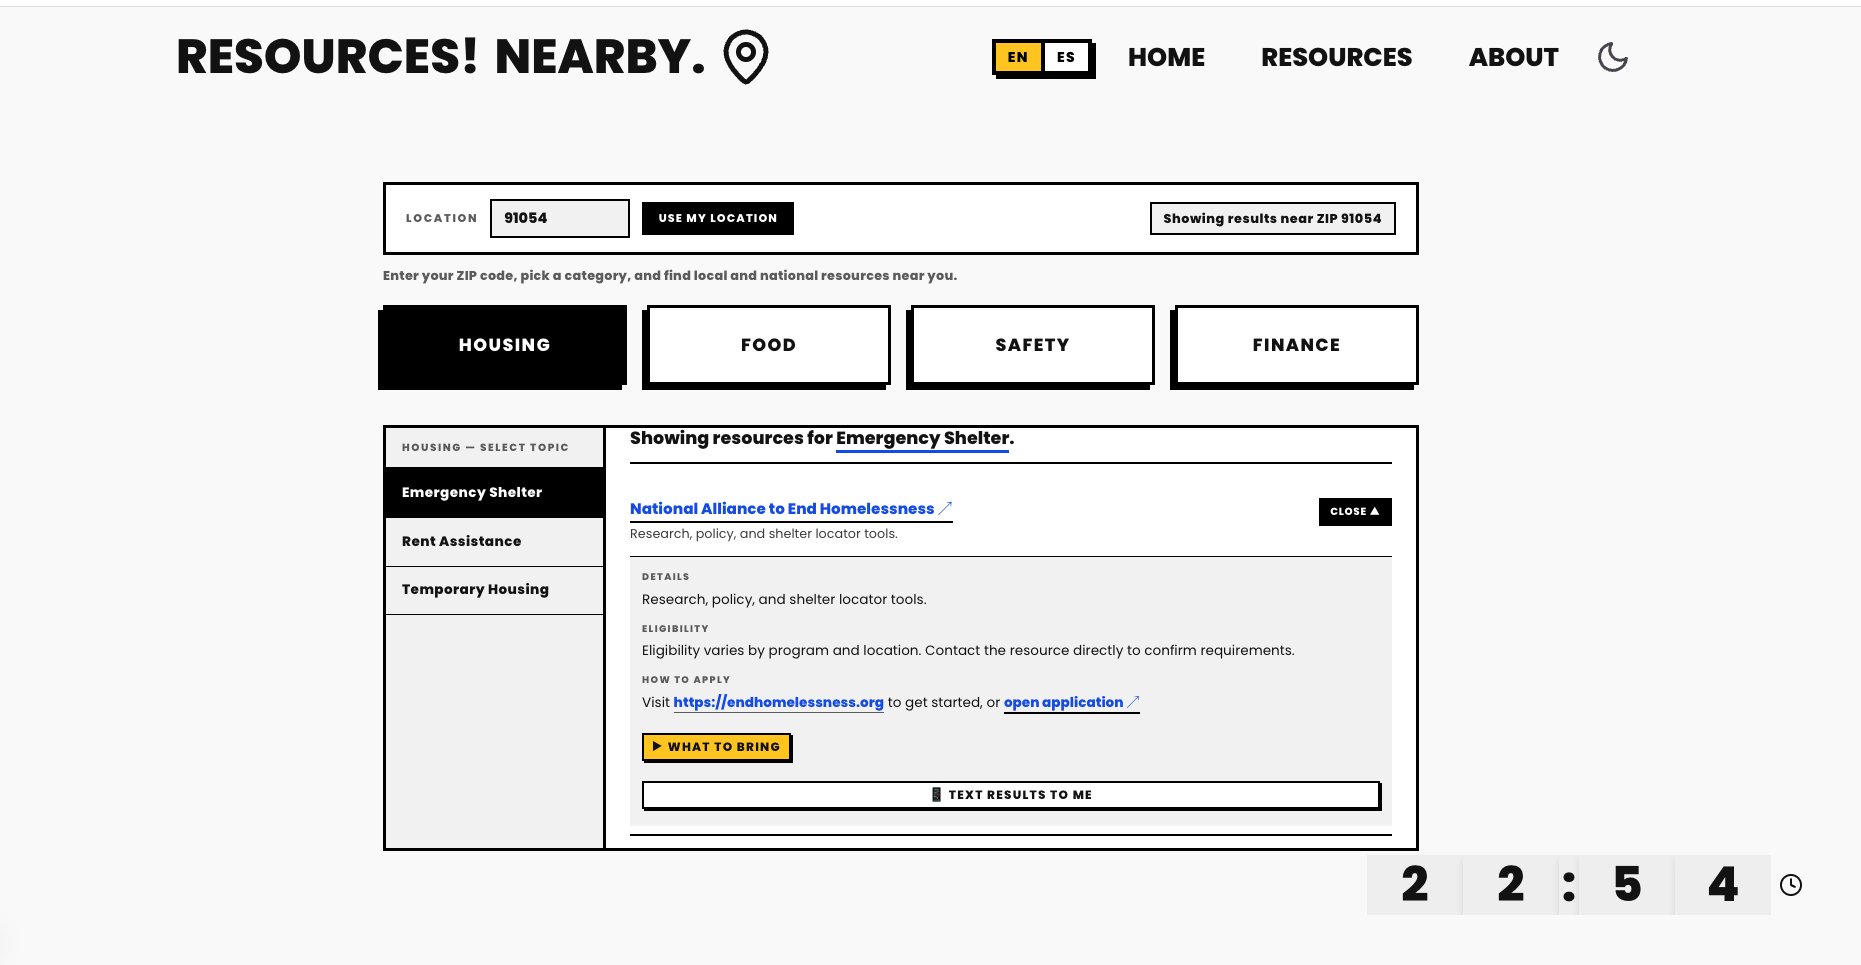
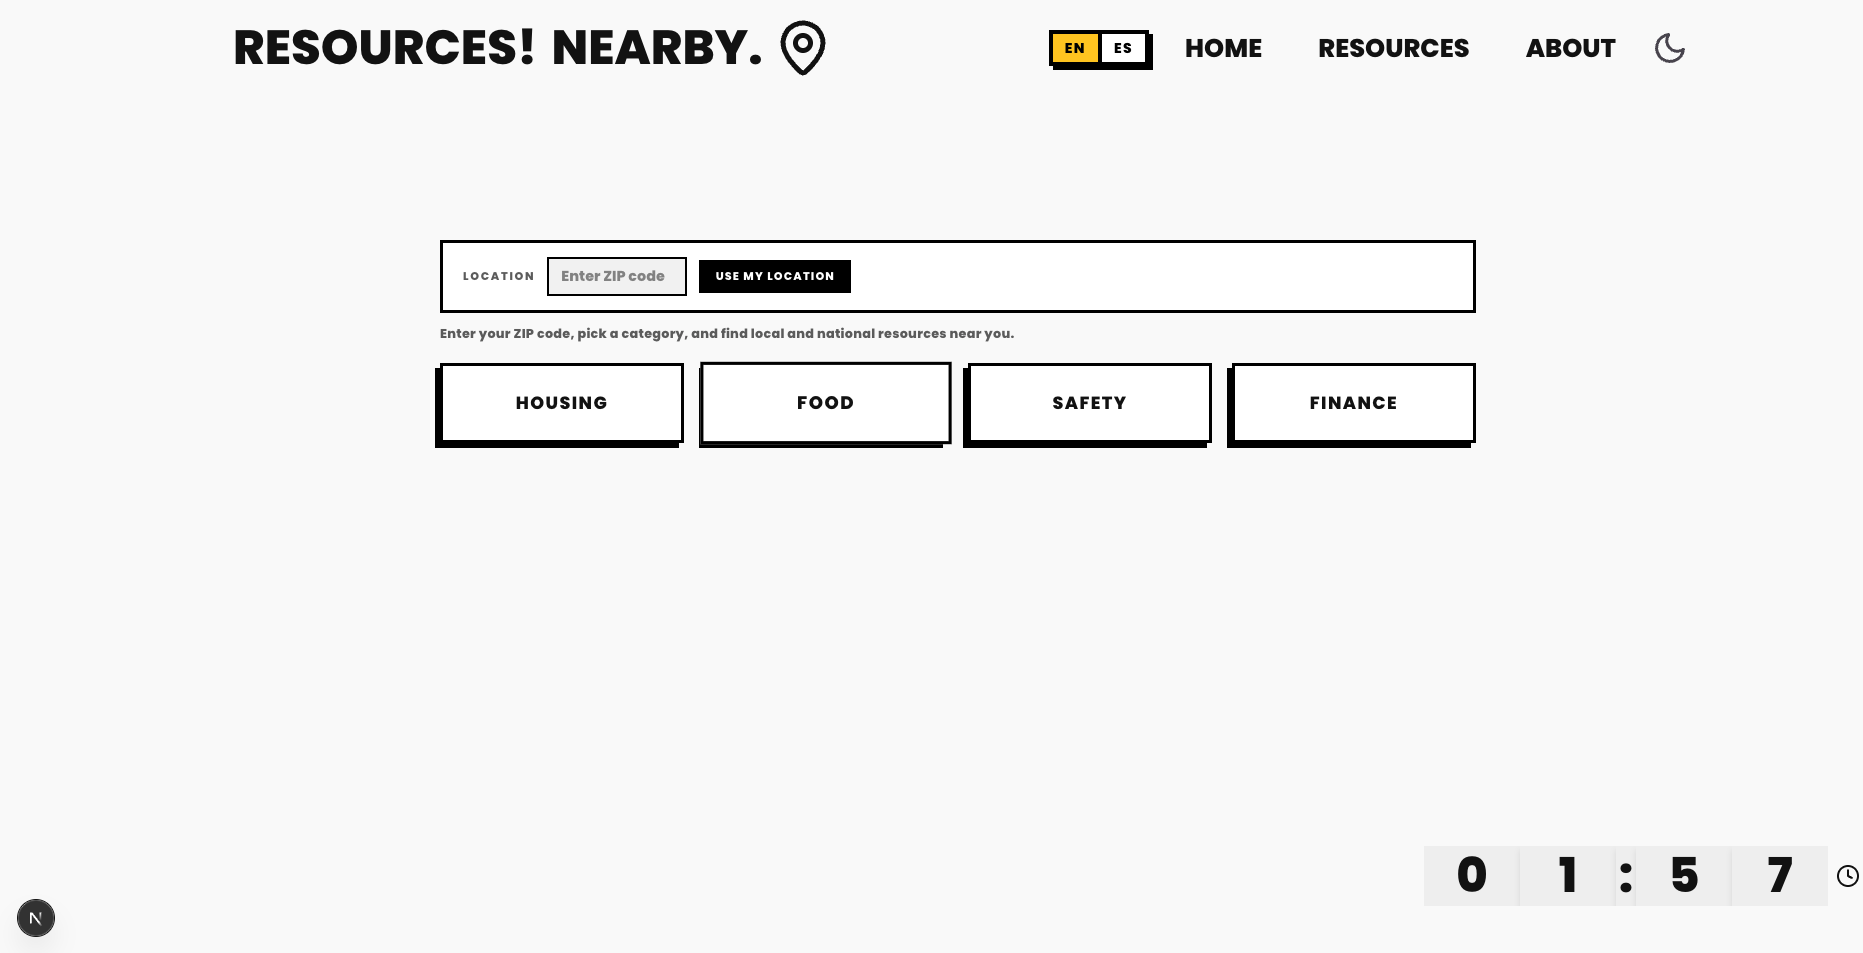
Update portfolio case studies and screenshots

diff --git a/src/data/projects.js b/src/data/projects.js
@@ -112,6 +112,7 @@ export const PROJECTS = [
   },
 
   // ---------------------------------------------------------
+  // ---------------------------------------------------------
   // Sidecar — the deep one
   // ---------------------------------------------------------
   {
@@ -119,78 +120,72 @@ export const PROJECTS = [
     slug: 'sidecar',
     n: '02',
     title: 'Sidecar',
-    titleEm: '— drafting & triage for support.',
+    titleEm: '— support drafting & KB control.',
     kind: 'AI tool',
     year: '2024 — present',
-    desc: 'An assistant for support agents. Drafts replies grounded in your docs, surfaces similar past tickets, and explains what it suggested and why. The agent ships; Sidecar learns.',
-    tags: ['typescript · rag · claude'],
+    desc: 'A support-agent assistant for Freshdesk-style workflows. Drafts replies from approved KB content, keeps the agent in control, and lets me update support wording from my phone.',
+    tags: ['python · flask · telegram'],
     accent: 'var(--olive)',
     shape: 'half',
-    role: 'Solo design + build — research, system architecture, AI integration, frontend',
-    status: 'Active project · iterating with internal testers',
+    role: 'Solo build — design, backend, frontend, KB workflow',
+    status: 'Active project · deployed on Railway',
     repo: null,
     demo: null,
     overview: [
-      "Sidecar is a support-agent assistant. It sits inside an inbox or help-desk view and does three things: drafts a reply grounded in the team's own documentation, surfaces the three most similar past tickets, and explains in one line why it suggested what it suggested.",
-      "It is not a chatbot. There is no end-user-facing surface. Every output is a draft reviewed by a human agent before it ships. The point of Sidecar is to take the ten minutes an agent spends searching docs and past tickets for one reply, and turn it into ninety seconds of editing a draft that's already 80% there.",
-      'I built it because I wanted to know how much value an LLM actually adds to support work when you stop trying to replace the agent and start trying to make their existing job faster and less repetitive.',
+      'FutureHub Sidecar is an agent-side support assistant built for FutureBit-style support workflows. It sits alongside Freshdesk, reads the incoming ticket, searches a local KB file, and generates a customer-ready draft grounded in approved KB content.',
+      'It is not a chatbot and has no customer-facing surface. Every draft is reviewed by the agent before use. The goal is to make support faster, safer, and more consistent — not to replace the person doing it.',
     ],
     problem: [
-      'Most \u201CAI for support\u201D tools fall into one of two camps. Either they aim a bot directly at the customer (which removes the agent from the loop and is brittle), or they generate generic replies that any agent has to rewrite from scratch (which is worse than no tool — it adds a step).',
-      "The actual time-sink for a support agent isn't typing the reply. It's the search: finding the right doc page, recalling whether this customer has asked something similar before, checking whether the policy changed two months ago, deciding whether this is a duplicate of a known issue.",
-      'I wanted a tool that handled the search and the first draft — and got out of the way once the agent started editing. The agent stays the author. Sidecar is staffwork.',
+      'Support teams lose time searching docs and rewriting the same explanations from scratch. Wording drifts when no one owns the approved version of an answer. Generic AI replies are risky because they guess, repeat steps the customer already tried, or drift from company language.',
+      'I needed a tool that drafted from approved content, said so when it had no match, and let me update that content from my phone without a manual deploy process.',
     ],
     built: [
-      "A retrieval pipeline that ingests the team's documentation and a rolling window of recent tickets, chunks them, and stores embeddings in a vector index alongside structured metadata (product area, owning team, last-updated date).",
-      'A drafting layer that takes an incoming ticket, runs retrieval, and asks Claude to generate a reply grounded only in the retrieved snippets — with explicit instructions to refuse and say so if no relevant context was found.',
-      'A similar-ticket surface that does separate retrieval against past resolved tickets, scored on semantic similarity + customer-segment match, and shown as three cards next to the draft.',
-      'A reasoning trace — every draft is accompanied by a short \u201CWhy this draft\u201D summary listing the doc pages and past tickets it was built from. Agents click through to verify before sending.',
-      'A feedback loop — agents can mark a draft as \u201Cused as-is,\u201D \u201Cedited,\u201D or \u201Cdiscarded,\u201D and add a short reason. Discards roll into a weekly review surface so I can see which categories Sidecar still gets wrong.',
-      'Operational scaffolding: structured logging on every draft, a per-tenant rate budget, an offline evaluation harness with a held-out set of historical tickets and graded \u201Cgolden\u201D replies.',
+      'A Flask backend that receives the current ticket message and recent context, searches kb.json for matching articles, and generates a draft grounded in that source.',
+      'A safe-fallback path: when no KB article matches, the reply asks for more information instead of inventing an answer.',
+      'Follow-up awareness: when the customer says a prior step did not work, the draft acknowledges it and moves to the next option rather than repeating the same answer.',
+      'A Sidecar UI that shows the generated draft, a confidence/risk panel, and KB recommendations so the agent can see what the reply is based on before using it.',
+      'A Telegram approval loop: I send /kb_update or /kb_new_article, the bot shows a preview and diff, and nothing changes until I send /kb_approve <draft_id>. On approval it updates kb.json, commits to GitHub, pushes to main, and Railway redeploys. Sidecar uses the new wording on the next request.',
     ],
     features: [
-      'Grounded drafting — every reply traces back to specific doc passages and past tickets',
-      'Refusal by design — if retrieval finds nothing relevant, Sidecar says so instead of hallucinating',
-      'Similar-ticket panel — three closest past tickets, scored and dated',
-      '\u201CWhy this draft\u201D reasoning trace on every output',
-      'Inline edit feedback — used / edited / discarded — feeds the eval set',
-      'Weekly digest of discarded drafts grouped by category, for content gaps',
-      "Per-tenant retrieval — a team's data never crosses into another tenant's index",
-      'Structured logging on every draft for audit and review',
+      'KB-grounded draft generation — replies trace back to approved articles, not guesses',
+      'Safe fallback — asks for more info when no KB match exists instead of hallucinating',
+      'Follow-up awareness — does not repeat resolved steps when the customer says it did not work',
+      'Confidence and risk panel — shows the agent signal strength before they use the draft',
+      'Review Intelligence and KB recommendations — agent sees which articles matched',
+      'Manual approval — no draft is used without the agent reviewing it first',
+      'Telegram KB update loop — /kb_update and /kb_new_article with preview and diff',
+      'Approval gate — /kb_approve <draft_id> required before any KB change goes live',
+      'GitHub + Railway deploy loop — approved changes commit, push, and redeploy automatically',
+      'Version-controlled KB — every wording change has a commit behind it',
     ],
     architecture: [
-      'Inbox webhook → ingest queue → retrieval (docs + tickets) → drafting (Claude with strict grounding prompt + refusal clause) → reasoning trace → render in agent UI.',
-      'Feedback events flow back into the eval harness; nightly job re-scores prompts and retrieval params against the held-out set; regressions block deploys.',
+      'Freshdesk ticket — Tampermonkey reads the ticket context — /generate_reply searches kb.json — grounded draft or safe fallback is created — confidence/risk context is shown — draft is inserted into the Freshdesk reply box — agent reviews, edits, sends, or discards.',
+      'KB update path: Telegram command — OpenClaw drafts the KB change — bot shows preview/diff — /kb_approve confirms the change — kb.json updates — GitHub push — Railway redeploy — Sidecar uses the approved wording on the next request.',
     ],
     stack: [
       {
-        group: 'AI',
-        items: [
-          'Claude API (Sonnet for drafting, Haiku for classification)',
-          'OpenAI embeddings',
-          'Custom prompt layer with refusal contract',
-        ],
-      },
-      {
         group: 'Backend',
-        items: ['TypeScript', 'Node', 'Postgres', 'pgvector'],
+        items: ['Python', 'Flask', 'kb.json as KB source'],
       },
       {
-        group: 'Retrieval',
+        group: 'Frontend',
+        items: ['JavaScript', 'Sidecar UI panel'],
+      },
+      {
+        group: 'KB workflow',
         items: [
-          'Hybrid BM25 + vector',
-          'Per-tenant index isolation',
-          'Metadata filters',
+          'Telegram Bot API',
+          'OpenClaw agent for KB drafting',
+          'GitHub for version control',
+          'Railway for deploys',
         ],
       },
-      { group: 'Frontend', items: ['React', 'Inbox-panel webview'] },
       {
-        group: 'Ops',
+        group: 'Testing',
         items: [
-          'Structured JSON logs',
-          'Loki + Grafana',
-          'Offline eval harness',
-          'Per-tenant rate limits',
+          'Freshdesk test tickets',
+          'curl / manual API tests',
+          'End-to-end KB deploy verification',
         ],
       },
     ],
@@ -200,8 +195,10 @@ export const PROJECTS = [
         caption:
           'Agent-facing ticket form for entering the latest customer message and starting the support draft workflow.',
         image: '/images/sidecar-ticket-form.png',
-        ratio: '9 / 16',
+        ratio: '4 / 3',
         fit: 'contain',
+        position: 'center top',
+        zoom: 1,
       },
       {
         label: 'Knowledge match card',
@@ -222,7 +219,7 @@ export const PROJECTS = [
       {
         label: 'Draft response panel',
         caption:
-          'Generated reply stays editable and requires agent review before it can be inserted into the CRM.',
+          'Sidecar places the draft into the Freshdesk reply box so the agent can review, edit, send, or discard.',
         image: '/images/sidecar-draft-response.png',
         ratio: '9 / 16',
         fit: 'contain',
@@ -237,17 +234,21 @@ export const PROJECTS = [
       },
     ],
     learned: [
-      "Refusal is a feature. The biggest single trust win came from teaching the model to say \u201CI don't have enough context to draft this — here's what I'd want\u201D rather than guessing. Agents trusted the tool more once they saw it decline.",
-      'Reasoning traces matter as much as the draft. Without \u201CWhy this draft,\u201D agents either rubber-stamped or distrusted everything. With it, they edited like editors — fast and confident.',
-      'Retrieval quality is the whole game. Prompt engineering on a bad retrieval set just produces fluent wrongness. Most of my time went into chunking, metadata, and hybrid scoring — not prompts.',
-      "An offline eval harness with graded golden replies is non-negotiable once you have more than a handful of agents using the tool. It's the only way to catch silent regressions when you tweak a prompt or swap a model.",
-      "The discard log was the most valuable observability surface. The drafts agents threw away told me where the docs were wrong, where the policy had drifted, and where Sidecar's category routing was off.",
+      'KB quality matters more than prompt cleverness. A well-written article beats a clever prompt against a vague one every time.',
+      'AI should draft, not silently send. The approval step is not friction — it is the feature.',
+      'The fastest workflow still needs a human checkpoint. Speed comes from reducing search time, not from removing review.',
+      'A small kb.json can be more useful than an overbuilt knowledge system if it is easy to update and the wording is actually right.',
+      'The Telegram approval loop made the system feel operational, not just like a demo. Being able to update support wording from my phone and see it live in Freshdesk in under a minute changed how I thought about KB maintenance.',
+      'Follow-up behavior is critical. Repeating the same answer after the customer says that did not work is a hard failure that breaks trust immediately.',
     ],
     next: [
-      'A small drafting style profile per team — match tone, length, and signoff conventions without manual prompting.',
-      'Add proactive surfacing: when a ticket matches a known incident, lead with the incident note instead of a generic draft.',
-      'Investigate on-device retrieval for teams with strict data-residency requirements.',
-      'Publish a writeup on the eval-harness setup — the grading rubric was the hardest part to get right.',
+      'Add more FutureBit-approved KB articles from blogs, setup docs, and real tickets.',
+      'Improve Suggested KB Matches so the agent can see why a specific article was surfaced.',
+      'Add lightweight edit/discard logging so I can see which drafts agents actually use.',
+      'Add a small test set for common ticket types to catch regressions when prompts or KB content changes.',
+      'Add decision log support for management-approved wording-approved wording so team leads can flag canonical answers.',
+      'Improve the Telegram bot so new article drafts cite the source link they were built from.',
+      'Keep auto-send advisory only — drafts assist, the agent decides.',
     ],
   },
 

diff --git a/src/components/CaseStudy.jsx b/src/components/CaseStudy.jsx
@@ -1,4 +1,4 @@
-import React from 'react';
+import React, { useRef, useCallback } from 'react';
 import ProjectMark from './ProjectMark.jsx';
 
 /**
@@ -14,19 +14,60 @@ function ImageBlock({
   fit = 'cover',
   position = 'center center',
   zoom = 1,
+  hoverScale = 1.08,
+  panOnHover = false,
 }) {
+  const frameRef = useRef(null);
+  const imgRef = useRef(null);
+  const hasPan = panOnHover && !!image;
+
+  const handleMouseMove = useCallback(
+    (e) => {
+      if (!hasPan || !frameRef.current || !imgRef.current) return;
+      const img = imgRef.current;
+      const rect = frameRef.current.getBoundingClientRect();
+      const nx = (e.clientX - rect.left) / rect.width;
+      const ny = (e.clientY - rect.top) / rect.height;
+      const S = zoom * hoverScale;
+      const maxTx = (rect.width * (S - 1)) / 2;
+      const maxTy = (rect.height * (S - 1)) / 2;
+      img.style.transition = 'none';
+      img.style.setProperty('--frame-scale', String(S));
+      img.style.setProperty('--pan-x', `${(nx - 0.5) * maxTx * 0.5}px`);
+      img.style.setProperty('--pan-y', `${(ny - 0.5) * maxTy * 0.5}px`);
+    },
+    [hasPan, zoom, hoverScale]
+  );
+
+  const handleMouseLeave = useCallback(() => {
+    if (!hasPan || !imgRef.current) return;
+    const img = imgRef.current;
+    img.style.transition = '';
+    img.style.removeProperty('--frame-scale');
+    img.style.setProperty('--pan-x', '0px');
+    img.style.setProperty('--pan-y', '0px');
+  }, [hasPan]);
+
   return (
     <figure className="case-figure">
-      <div className="frame" style={{ aspectRatio: ratio }}>
+      <div
+        className={hasPan ? 'frame frame--pan' : 'frame'}
+        ref={frameRef}
+        style={{ aspectRatio: ratio }}
+        onMouseMove={handleMouseMove}
+        onMouseLeave={handleMouseLeave}
+      >
         {image ? (
           <img
+            ref={imgRef}
+            className="frame-img"
             src={image}
             alt={label || caption || 'Project screenshot'}
             style={{
               objectFit: fit,
               objectPosition: position,
-              transform: `scale(${zoom})`,
-              transformOrigin: position,
+              '--img-zoom': zoom,
+              '--img-hover-scale': hoverScale,
             }}
           />
         ) : (
@@ -177,6 +218,8 @@ export default function CaseStudy({ project: p }) {
             fit={p.screenshots[0].fit || 'cover'}
             position={p.screenshots[0].position || 'center center'}
             zoom={p.screenshots[0].zoom || 1}
+            hoverScale={p.screenshots[0].hoverScale}
+            panOnHover={p.screenshots[0].panOnHover}
           />
         </div>
       )}
@@ -221,6 +264,11 @@ export default function CaseStudy({ project: p }) {
                 caption={s.caption}
                 image={s.image}
                 ratio={s.ratio || '4 / 3'}
+                fit={s.fit || 'cover'}
+                position={s.position || 'center center'}
+                zoom={s.zoom || 1}
+                hoverScale={s.hoverScale}
+                panOnHover={s.panOnHover}
               />
             ))}
           </div>
@@ -254,6 +302,11 @@ export default function CaseStudy({ project: p }) {
                 caption={s.caption}
                 image={s.image}
                 ratio={s.ratio || '4 / 3'}
+                fit={s.fit || 'cover'}
+                position={s.position || 'center center'}
+                zoom={s.zoom || 1}
+                hoverScale={s.hoverScale}
+                panOnHover={s.panOnHover}
               />
             ))}
           </div>

diff --git a/src/styles/case-study.css b/src/styles/case-study.css
@@ -575,9 +575,26 @@
     flex-wrap: wrap;
   }
 }
-.case-figure .frame img {
+/* ── screenshot image + hover zoom / pan ─────────────────── */
+.frame-img {
   width: 100%;
   height: 100%;
   object-fit: cover;
   display: block;
+  transform: translate(var(--pan-x, 0px), var(--pan-y, 0px))
+    scale(var(--frame-scale, var(--img-zoom, 1)));
+  transition: transform 500ms ease-out;
+}
+
+@media (hover: hover) and (pointer: fine) {
+  /* cursor on any real-image frame */
+  .case-figure .frame:has(.frame-img) {
+    cursor: zoom-in;
+  }
+  /* CSS-only zoom for frames without JS pan */
+  .case-figure .frame:not(.frame--pan):hover .frame-img {
+    transform: translate(0px, 0px)
+      scale(calc(var(--img-zoom, 1) * var(--img-hover-scale, 1.08)));
+  }
+  /* pan frames: JS drives the transform; CSS just provides the cursor */
 }
